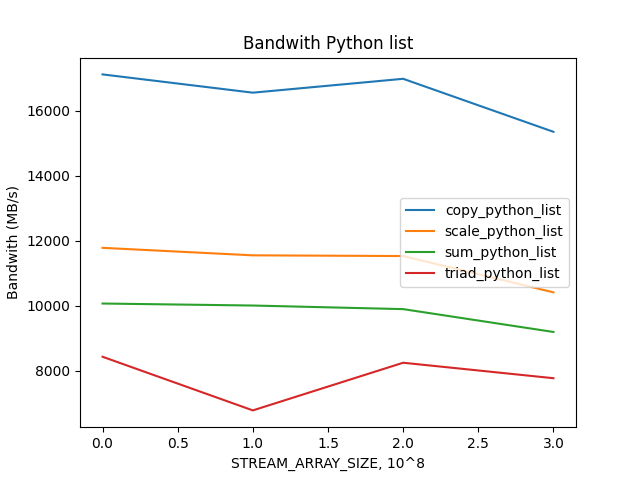
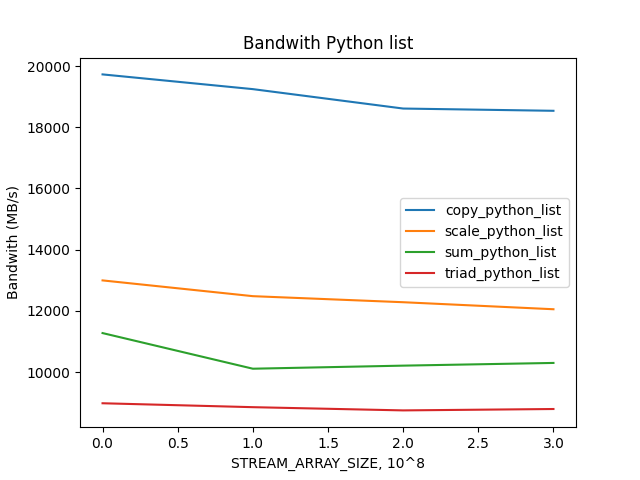
Update for Passing

diff --git a/exercise2.py b/exercise2.py
@@ -1,11 +1,10 @@
 import time
 import array
 import numpy as np
+from pyrsistent import s
 
-STREAM_ARRAY_SIZE = 10000
-STREAM_ARRAY_TYPE = 'd'
 
-def stream_python_list():
+def stream_python_list(STREAM_ARRAY_TYPE, STREAM_ARRAY_SIZE):
     a = [1.0] * STREAM_ARRAY_SIZE
     b = [2.0] * STREAM_ARRAY_SIZE
     c = [0.0] * STREAM_ARRAY_SIZE
@@ -39,7 +38,8 @@ def stream_python_list():
 
     return times
 
-def stream_array():
+
+def stream_array(STREAM_ARRAY_TYPE, STREAM_ARRAY_SIZE):
     a = array.array(STREAM_ARRAY_TYPE, [1.0] * STREAM_ARRAY_SIZE)
     b = array.array(STREAM_ARRAY_TYPE, [2.0] * STREAM_ARRAY_SIZE)
     c = array.array(STREAM_ARRAY_TYPE, [0.0] * STREAM_ARRAY_SIZE)
@@ -73,7 +73,8 @@ def stream_array():
 
     return times
 
-def stream_numpy():
+
+def stream_numpy(STREAM_ARRAY_TYPE, STREAM_ARRAY_SIZE):
     a = np.ones(STREAM_ARRAY_SIZE, dtype=STREAM_ARRAY_TYPE)
     b = np.ones(STREAM_ARRAY_SIZE, dtype=STREAM_ARRAY_TYPE) * 2
     c = np.zeros(STREAM_ARRAY_SIZE, dtype=STREAM_ARRAY_TYPE)
@@ -103,15 +104,27 @@ def stream_numpy():
 
     return times
 
-def main():
-    times_python_list = stream_python_list()
-    times_array = stream_array()
-    times_numpy = stream_numpy()
+
+def main(STREAM_ARRAY_TYPE, STREAM_ARRAY_SIZE):
+    times_python_list = stream_python_list(
+        STREAM_ARRAY_TYPE, STREAM_ARRAY_SIZE)
+    times_array = stream_array(STREAM_ARRAY_TYPE, STREAM_ARRAY_SIZE)
+    times_numpy = stream_numpy(STREAM_ARRAY_TYPE, STREAM_ARRAY_SIZE)
 
     print("Python list: ", times_python_list)
     print("Array: ", times_array)
     print("Numpy: ", times_numpy)
     return (times_python_list, times_array, times_numpy)
+
+
+# Without Cython:
+#  real    0m10.768s
+#  user    0m10.276s
+#  sys     0m2.168s
+# With Cython (no type declarations):
+#  real    0m9.435s
+#  user    0m9.118s
+#  sys     0m1.736s
 
 
 if __name__ == "__main__":
@@ -129,9 +142,11 @@ if __name__ == "__main__":
     bandwith_scale_numpy = []
     bandwith_sum_numpy = []
     bandwith_triad_numpy = []
+    STREAM_ARRAY_SIZE = 10000
+    STREAM_ARRAY_TYPE = 'd'
 
     while STREAM_ARRAY_SIZE < 100000000:
-        times = main()
+        times = main(STREAM_ARRAY_TYPE, STREAM_ARRAY_SIZE)
     # 
         c = STREAM_ARRAY_SIZE
         # calculate MB/s for each operation
@@ -201,3 +216,5 @@ if __name__ == "__main__":
 
 
 
+# Plot the bandwidth results varying the arrays' size. Answer the question: how does the bandwidth measured with Cython code compare to bandwidth obtained in Assignment II.
+# 
